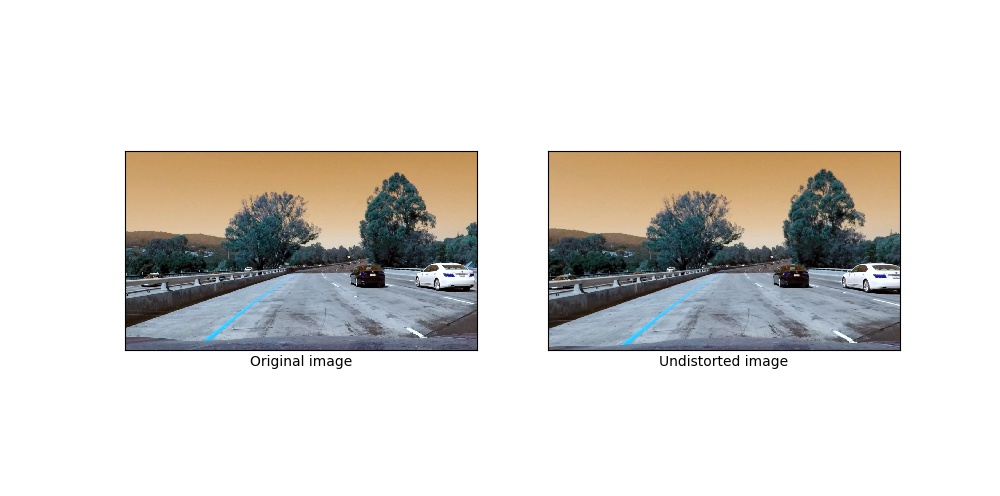
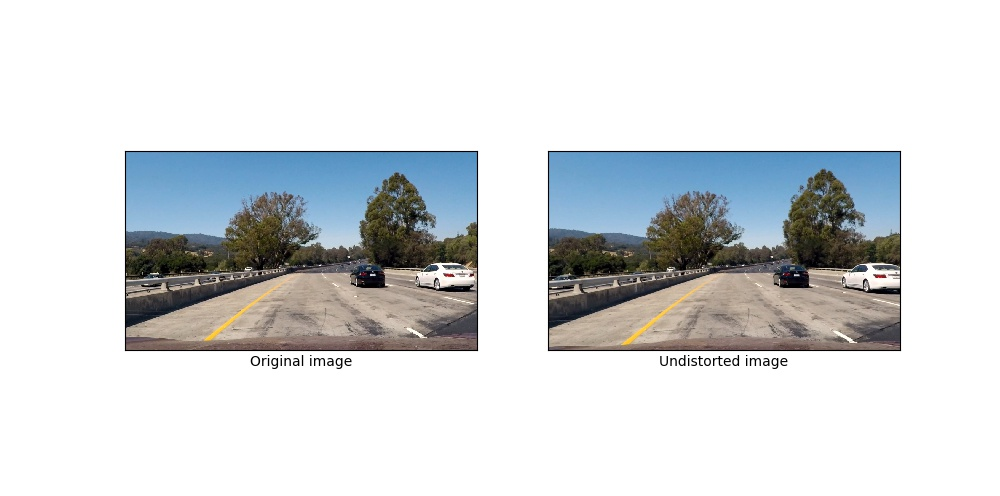
Fixed image distortion examples. Using RGB instead of BGR

Changed region(s): [[0.527, 0.3024, 0.899, 0.7258], [0.124, 0.3024, 0.496, 0.7258]]

diff --git a/project.py b/project.py
@@ -60,7 +60,7 @@ def test_after_camera_calibration_images_should_be_undistorted(image,
                                                                cam_mtx,
                                                                cam_dist,
                                                                figsize=(10,5)): 
-    undist = cv2.undistort(image, cam_mtx, cam_dist, None, cam_mtx)
+    undist_image = cv2.undistort(image, cam_mtx, cam_dist, None, cam_mtx)
     plt.figure(figsize=figsize)
     plt.subplot(1, 2, 1)
     plt.imshow(image)
@@ -69,8 +69,8 @@ def test_after_camera_calibration_images_should_be_undistorted(image,
     plt.yticks([], [])
 
     plt.subplot(1, 2, 2)
-    plt.imshow(undist)
-    plt.xlabel('Undistorted image')
+    plt.imshow(undist_image)
+    plt.xlabel('undist_imageorted image')
     plt.xticks([], [])
     plt.yticks([], [])
     plt.show()
